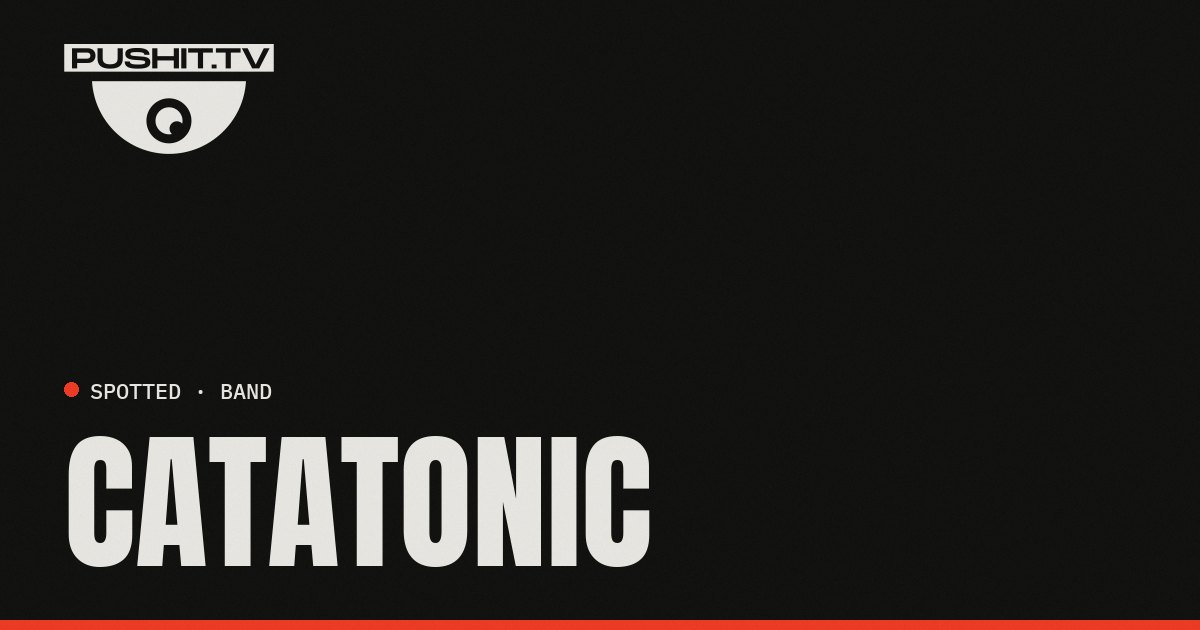
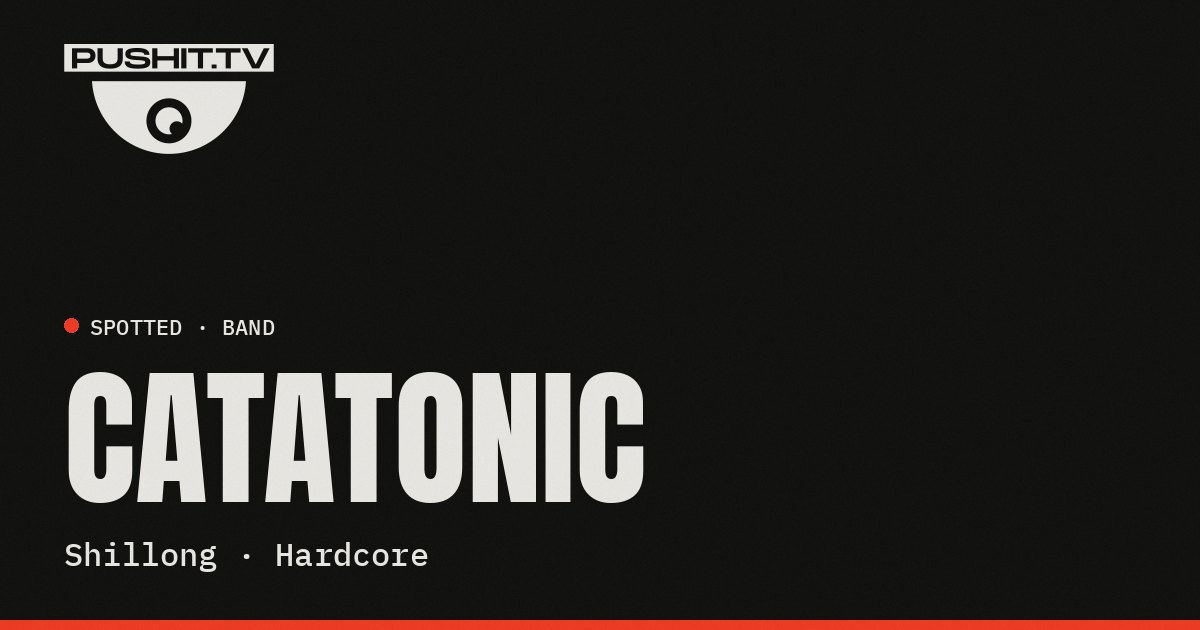
New tape: Catatonic live at The Humming Tree
Both new posts are the same performance, so they make one new tape (src/content/episodes/catatonic-humming-tree.md, series "scenes", filmed 07.09.26 per the YouTube title, published 19.10.26):

- YouTube g-Cmdcs3wS8 "(07.09.26) CATATONIC - Bootlicker + Fawn - Live at The Humming Tree" (5:16) is the tape's video. No timestamps in the description, so no chapters.
- Instagram DerWmDcPQ6Z (50 s reel, "live now on our YT channel") is its teaser and goes in the tape's instagram list. Its auto still landed on the CATATONIC title card, so I re-grabbed it at 25 s (a guitar close-up).

No existing tape covers this gig. The HRMCOREWRLD tape mentions Catatonic but that was in Mumbai.

Cover: the YouTube poster (/media/yt/g-Cmdcs3wS8.jpg). This tape has a YouTube video, so no heroClip or loop is needed.

spotted: catatonic and the-humming-tree. The existing Catatonic entry now has city Shillong and genre Hardcore (both from the YouTube description) and the Instagram handle catatonic.india (tagged co-author). Abbas Razvi (console mix) is credited in the text but is a person, so doesn't get a spotted entry.

Because the tape was filmed 07.09.26, it gets a tape number ahead of Runt (09.09) and The Big Bad Bash (18.09), so each of those two tapes is now numbered one higher.

Automated by .github/workflows/daily-tapes.yml (run https://github.com/dhruvinci/pushit/actions/runs/39262898583)

Changed region(s): [[0.0308, 0.573, 0.555, 0.9048], [0.0308, 0.4825, 0.1542, 0.5429], [0.185, 0.5127, 0.2467, 0.5429]]

diff --git a/src/content/episodes/catatonic-humming-tree.md b/src/content/episodes/catatonic-humming-tree.md
@@ -1,0 +1,22 @@
+---
+subject: Catatonic
+title: Live at The Humming Tree
+series: scenes
+date: 2026-09-07
+published: 2026-10-19
+city: Bangalore
+venue: The Humming Tree
+summary: Shillong hardcore outfit Catatonic play two songs from their EP Smug, Bootlicker and Fawn.
+cover: /media/yt/g-Cmdcs3wS8.jpg
+spotted: [catatonic, the-humming-tree]
+instagram: [DerWmDcPQ6Z]
+youtube:
+  - id: g-Cmdcs3wS8
+    title: Bootlicker + Fawn
+    duration: 316
+    published: 2026-10-19
+---
+
+Shillong-based hardcore outfit Catatonic perform two songs from their EP *Smug* at The Humming Tree: *Bootlicker* and *Fawn*. Please support the band by buying their music on Bandcamp: [catatonicindia.bandcamp.com](https://catatonicindia.bandcamp.com).
+
+Shot by Pushit TV. Console mix by Abbas Razvi.
